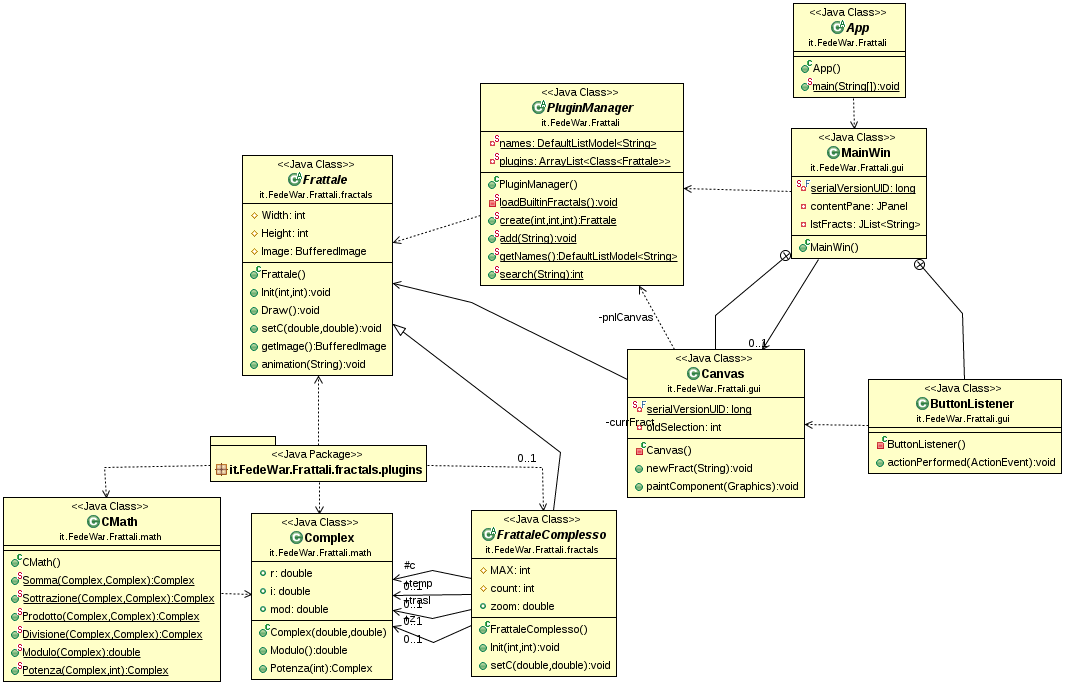
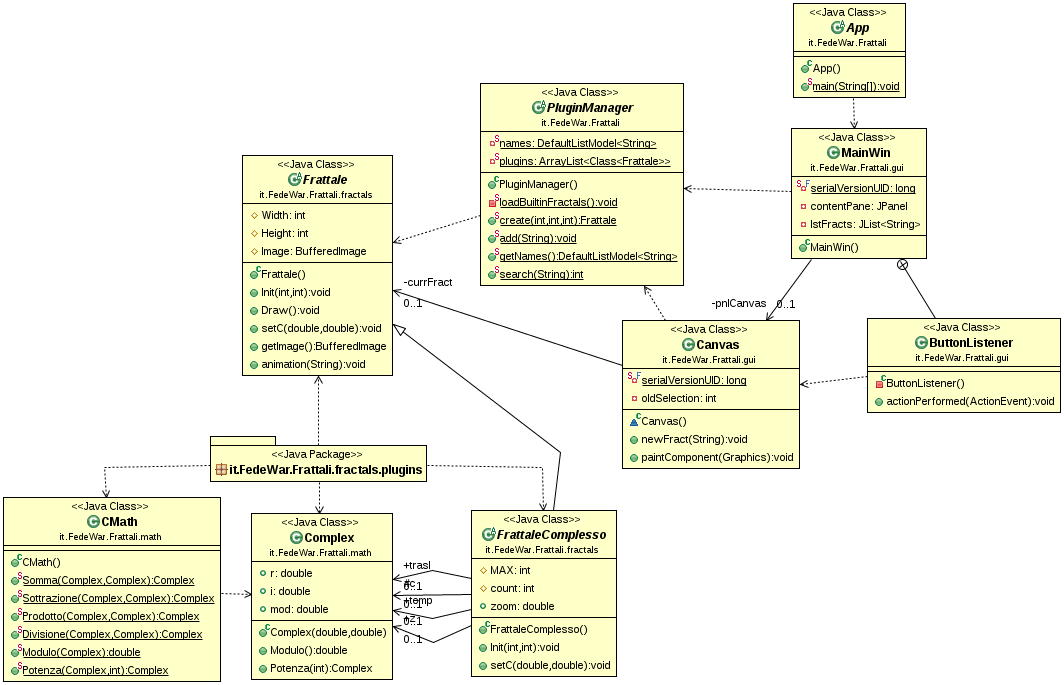
Canvas ora è una classe a se stante.

diff --git a/Frattali/src/it/FedeWar/Frattali/gui/MainWin.java b/Frattali/src/it/FedeWar/Frattali/gui/MainWin.java
@@ -1,8 +1,6 @@
 package it.FedeWar.Frattali.gui;
 
 import java.awt.Color;
-import java.awt.Graphics;
-import java.awt.Graphics2D;
 import java.awt.Toolkit;
 import java.awt.event.ActionEvent;
 import java.awt.event.ActionListener;
@@ -16,7 +14,6 @@ import javax.swing.JPanel;
 import javax.swing.border.EmptyBorder;
 
 import it.FedeWar.Frattali.PluginManager;
-import it.FedeWar.Frattali.fractals.Frattale;
 
 public class MainWin extends JFrame
 {
@@ -25,45 +22,6 @@ public class MainWin extends JFrame
 	private JPanel contentPane;
 	private JList<String> lstFracts;
 	private Canvas pnlCanvas;
-
-	/* Pannello sui cui disegnare */
-	private class Canvas extends JPanel
-	{
-		private static final long serialVersionUID = -6573971607519471731L;
-		private Frattale currFract;
-		private int oldSelection = -1;
-		
-		/* Crea un nuovo frattale da visualizzare */
-		public void newFract(String name)
-		{
-			// Ottiene l'id del frattale selezionato nella lista
-			int currentSelection = PluginManager.search(lstFracts.getSelectedValue());
-			
-			// Evita di disegnare più del necessario
-			if(currentSelection != oldSelection)
-			{
-				oldSelection = currentSelection;	// Cambia la vecchia selezione
-				currFract = PluginManager.create(	// Crea un nuovo frattale
-						currentSelection,
-						pnlCanvas.getWidth(),
-						pnlCanvas.getHeight());
-			}
-		}
-		
-		/* Ridisegna il pannello */
-		@Override
-		public void paintComponent(Graphics g)
-		{
-			super.paintComponent(g);
-			Graphics2D g2 = (Graphics2D) g;
-			
-			if(currFract != null)
-			{
-				currFract.Draw();
-				g2.drawImage(currFract.getImage(), null, null);
-			}
-		}
-	}
 	
 	private class ButtonListener implements ActionListener
 	{

diff --git a/Frattali/src/it/FedeWar/Frattali/gui/Canvas.java b/Frattali/src/it/FedeWar/Frattali/gui/Canvas.java
@@ -1,0 +1,46 @@
+package it.FedeWar.Frattali.gui;
+
+import java.awt.Graphics;
+import java.awt.Graphics2D;
+
+import javax.swing.JPanel;
+
+import it.FedeWar.Frattali.PluginManager;
+import it.FedeWar.Frattali.fractals.Frattale;
+
+/* Pannello sui cui disegnare */
+class Canvas extends JPanel
+{
+	private static final long serialVersionUID = -6573971607519471731L;
+	
+	private Frattale currFract;
+	private int oldSelection = -1;
+	
+	/* Crea un nuovo frattale da visualizzare */
+	public void newFract(String name)
+	{
+		// Ottiene l'id del frattale selezionato nella lista
+		int currentSelection = PluginManager.search(name);
+		
+		// Evita di disegnare più del necessario
+		if(currentSelection != oldSelection)
+		{
+			oldSelection = currentSelection;	// Cambia la vecchia selezione
+			currFract = PluginManager.create(currentSelection, getWidth(), getHeight());
+		}
+	}
+	
+	/* Ridisegna il pannello */
+	@Override
+	public void paintComponent(Graphics g)
+	{
+		super.paintComponent(g);
+		Graphics2D g2 = (Graphics2D) g;
+		
+		if(currFract != null)
+		{
+			currFract.Draw();
+			g2.drawImage(currFract.getImage(), null, null);
+		}
+	}
+}
